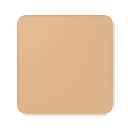
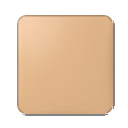
Put the tiles back; keep only the corner fixes
User's call after seeing the flattened board: go back to how it looked, keep the
corner work. So this reverts the three steps that came after it --
soften-tile-outline (FACTOR 0.72 then 1.0), the 1.3 -> 1.41 draw scale, and
flatten-tile-gloss (FLAT 0.75). The art bytes are now identical to c13604b, and a
render of level 30 confirms it: the beige row measures 122-192 again, exactly the
pre-change profile.

Kept: the drop shadow stripped out of the 19 PNGs, and the two-layer corner marker
gone. Those are what the user actually complained about; everything else was me
chasing the look further than asked.

The two scripts stay in scripts/ as tools, unused, with features.txt now recording
that their result was tried and rejected -- measured well (luminance spread across
four beige tiles went 65 -> 12 -> 3) but same-colour areas read as one slab, which
is not what the board should look like. Also written down there: the root cause of
the whole series, which is that tile-*.png is button art -- a 3D keycap with drop
shadow, dark outline and gradient -- being tiled edge to edge, so every
per-element decoration turns into a grid pattern, and it silently overrides the
flat procedural tile that §20 settled on the day before it landed.

Cache-buster to v11.

diff --git a/src/scenes/GameScene.ts b/src/scenes/GameScene.ts
@@ -459,7 +459,7 @@ export class GameScene extends Phaser.Scene {
       // Glossy keycap board-tile art (public/art/slime/tile-<id>.png). If present it
       // REPLACES the procedural flat tile in create(); missing ones fall back to it.
       // ?v= cache-buster: bump when the tile PNGs change so browsers refetch (they cache by URL).
-      this.load.image(`tile-${i}`, `art/slime/tile-${i}.png?v=10`);
+      this.load.image(`tile-${i}`, `art/slime/tile-${i}.png?v=11`);
     }
     // XU VÀNG màn thắng (video mẫu IMG_6489). Art thật user sẽ gửi vào public/art/coin.png;
     // thiếu/hỏng → create() vẽ placeholder (makeCoinTexture).
@@ -1435,12 +1435,11 @@ export class GameScene extends Phaser.Scene {
   // tile's color with a little face. Fills the cell so the grid reads as a mosaic.
   // A grid tile = a cute critter sprite (slime) in the tile's color.
   private makeKey(colorId: number, x: number, y: number, s: number) {
-    // The keycap fills only 0.71 of its PNG (the rest is transparent margin), so the draw
-    // scale decides how much of the cell it covers: ×1.3 covered 0.925 and left a 0.075 gap
-    // where the board panel showed through as a light hairline between every pair of tiles
-    // (user 2026-08-03: "vẫn có mấy gợn gợn này"). 1/0.71 = ×1.41 makes neighbouring caps
-    // meet exactly, so only the four-corner points still show the panel.
-    const img = this.add.image(0, 0, `tile-${colorId}`).setDisplaySize(s * 1.41, s * 1.41);
+    // The keycap fills only 0.71 of its PNG (the rest is transparent margin), so ×1.3 makes it
+    // cover 0.925 of the cell — a 0.075 gap stays, showing the board panel as a light hairline
+    // between tiles. ×1.41 (= 1/0.71) closes it, but the user tried that and asked to go back:
+    // edge-to-edge tiles make same-colour areas read as one slab. Keep 1.3.
+    const img = this.add.image(0, 0, `tile-${colorId}`).setDisplaySize(s * 1.3, s * 1.3);
     const c = this.add.container(x, y, [img]); // tiles keep their OWN baked highlight — extra gloss overlay removed (it added a dark-cap artifact)
     c.setSize(s, s);
     c.setData("body", img); // kept so the collect animation can bob the body alone
